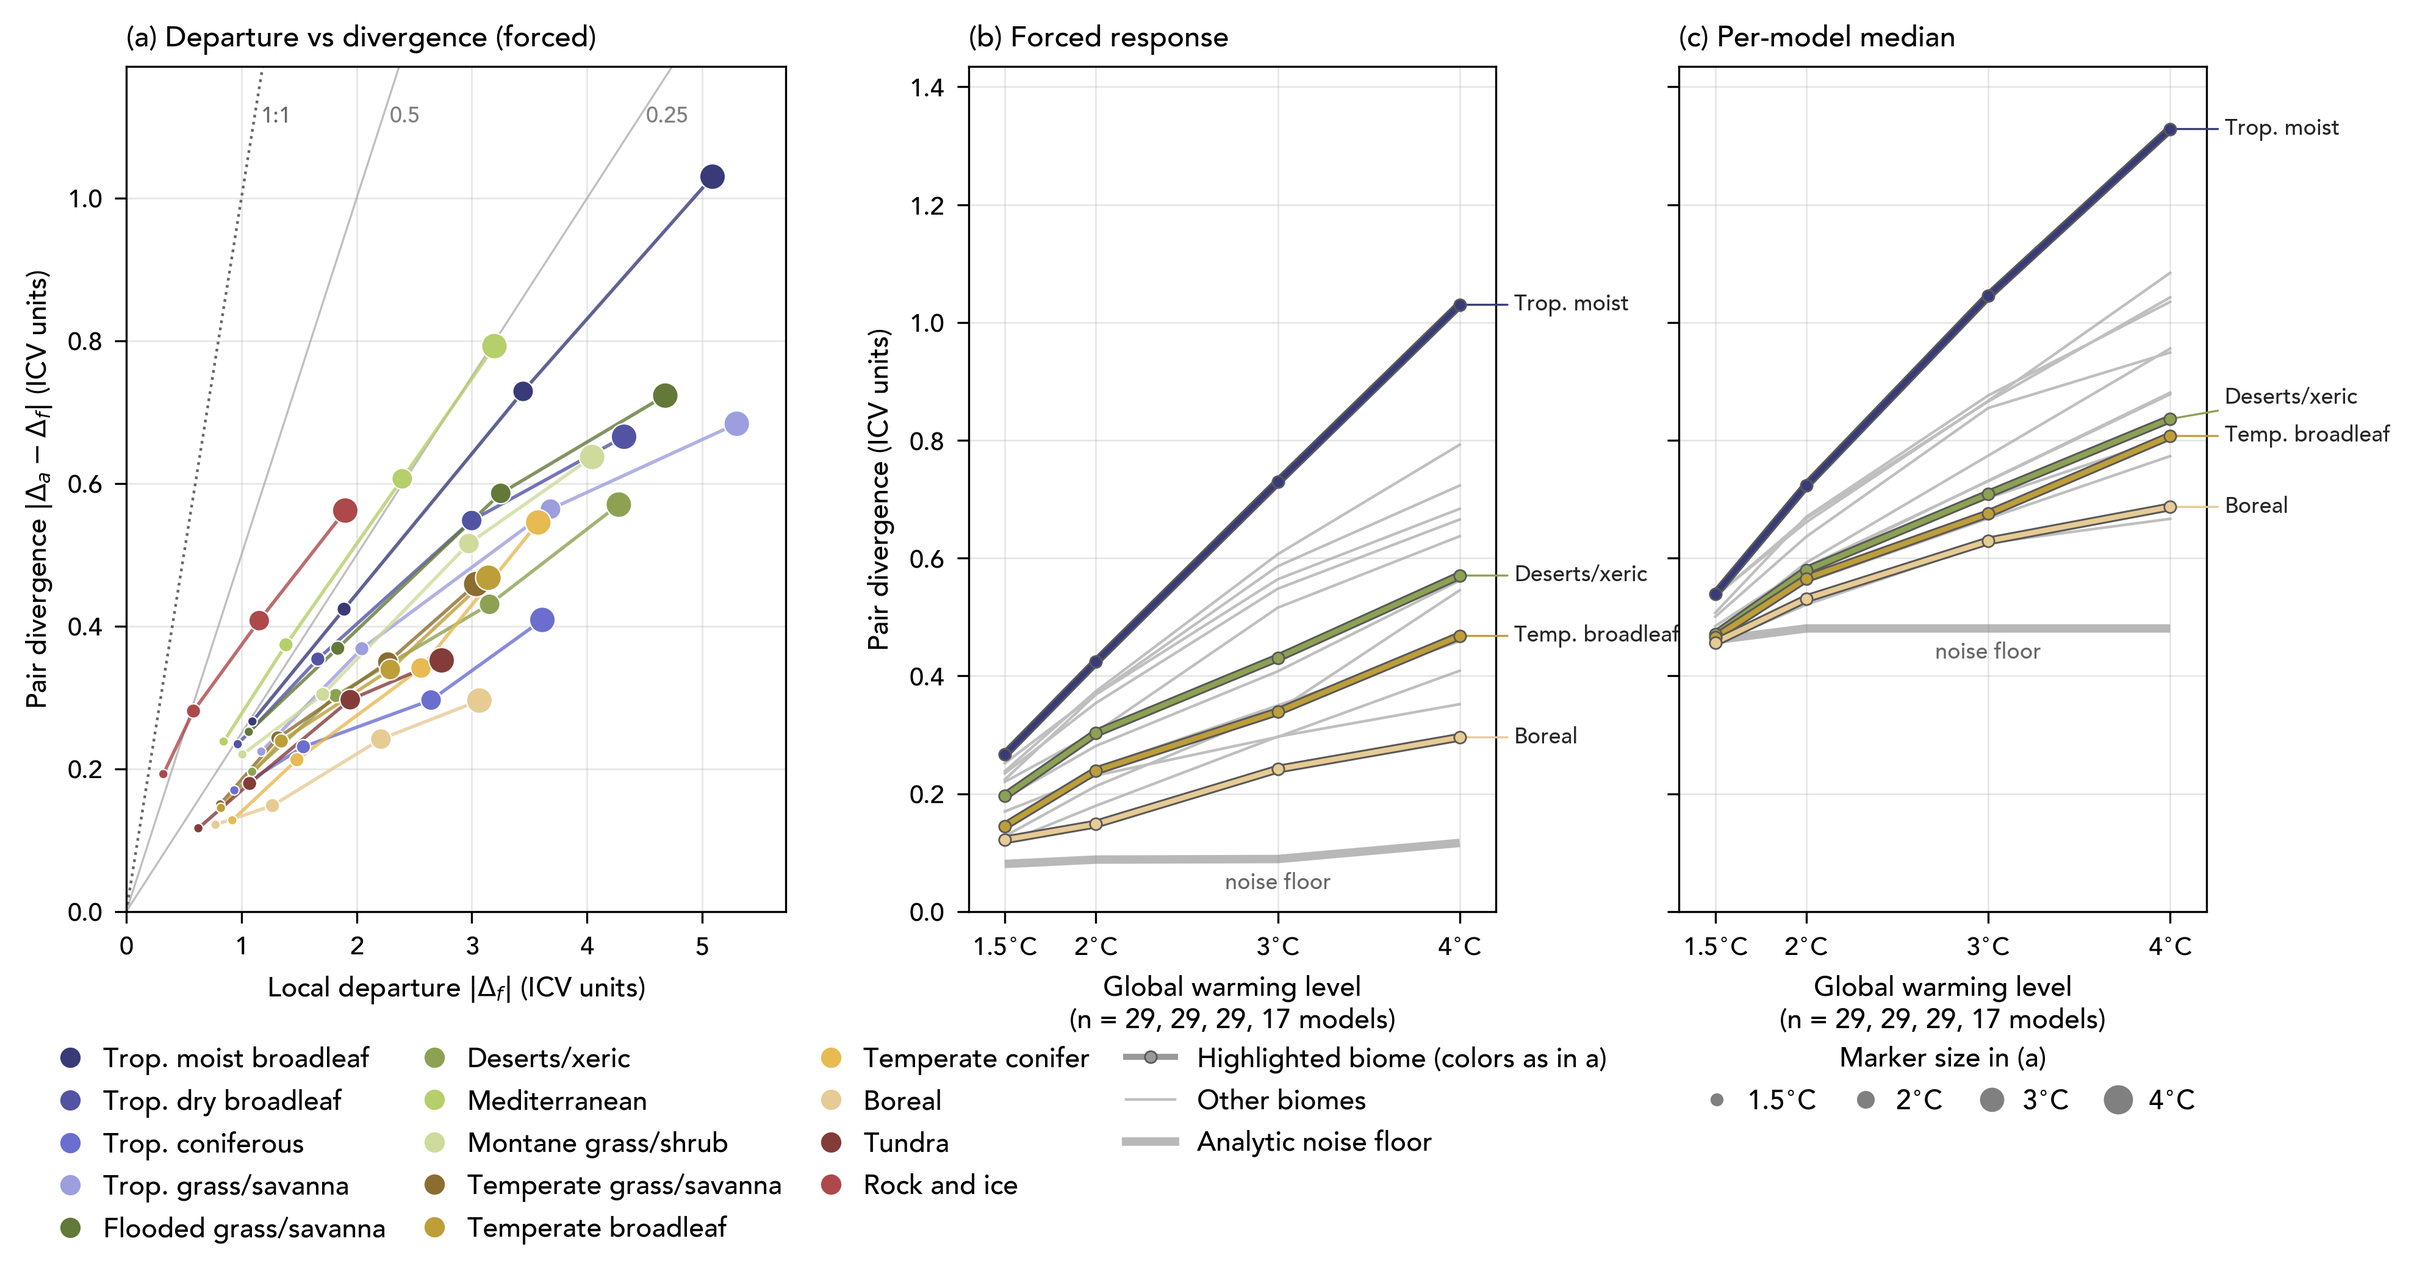
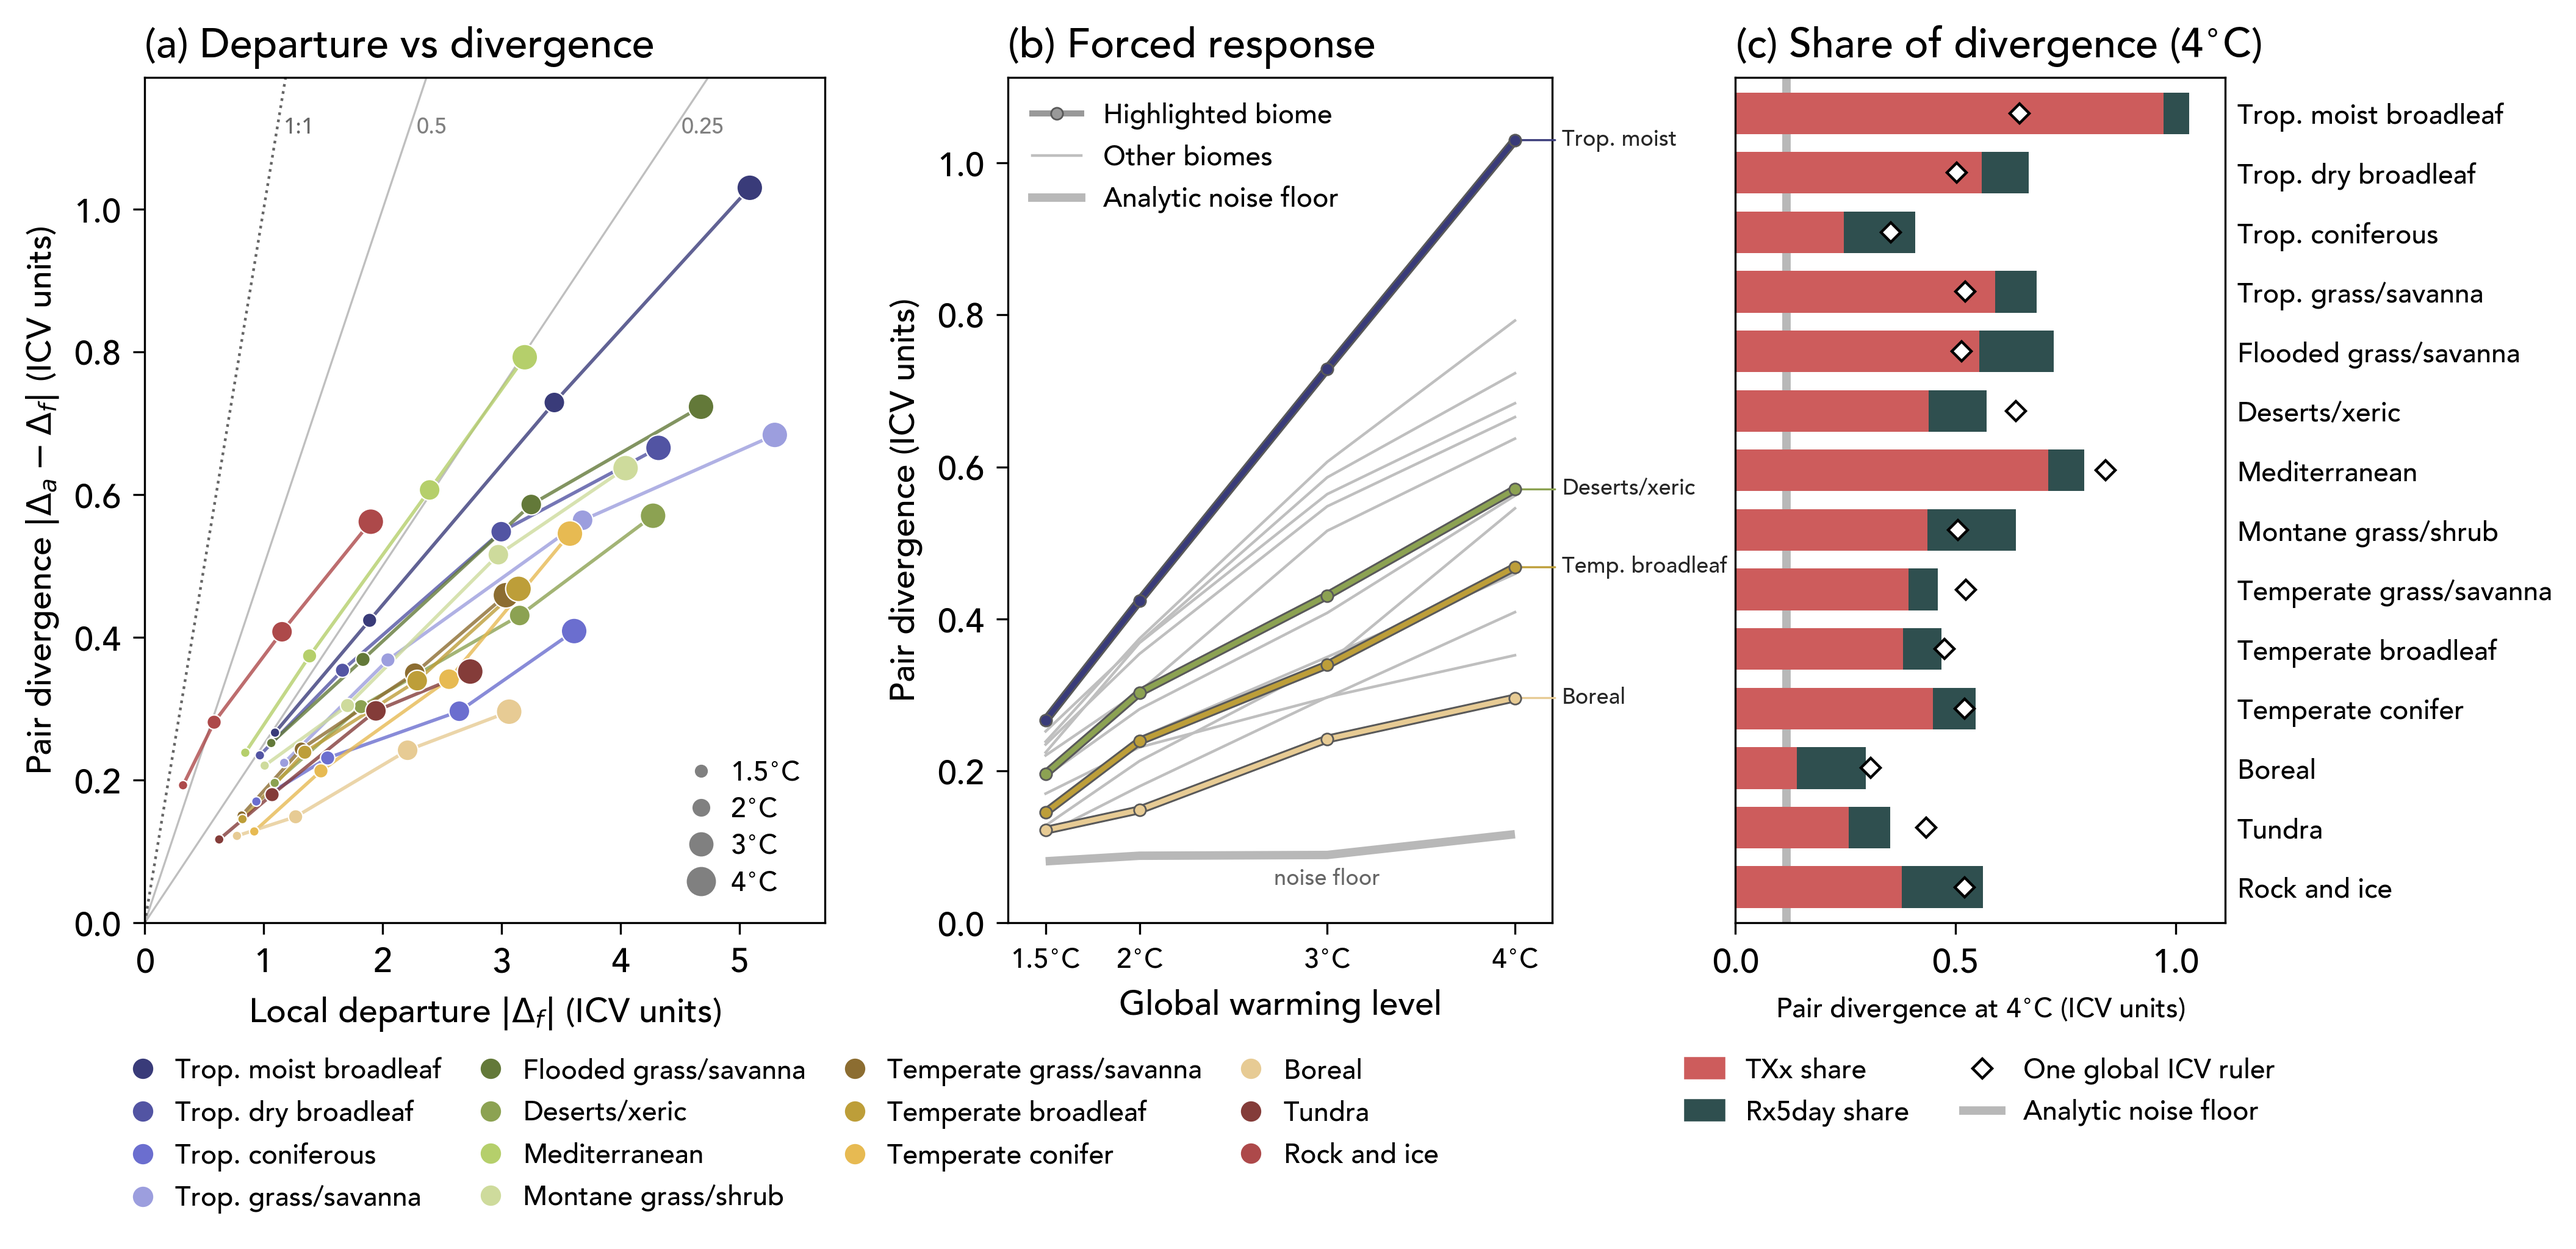
figure 3 tweaks

diff --git a/plot/plot.departure.divergence.py b/plot/plot.departure.divergence.py
@@ -40,7 +40,7 @@ HIGHLIGHT = [14, 1, 8, 2]        # tropical moist, boreal, temperate broadleaf, 
 SHORT = {14: 'Trop. moist', 1: 'Boreal', 8: 'Temp. broadleaf', 2: 'Deserts/xeric'}
 RATIOS = [0.25, 0.5]
 ATTR_GWL = os.environ.get('ANALOG_ATTR_GWL', 'gwl4')   # GWL for panel c
-VAR_COL = {'txx': '#b5541c', 'rx5day': '#3a6f9a'}
+VAR_COL = {'txx': 'indianred', 'rx5day': 'darkslategray'}
 VAR_LAB = {'txx': 'TXx', 'rx5day': 'Rx5day'}
 LABEL_A = {7: 'Rock and ice', 5: 'Mediterranean'}   # direct labels in (a): steepest trajectories
 # dark outline on highlighted lines in (b, c): keeps the light boreal tan readable
@@ -110,12 +110,10 @@ axa.plot([0, xmax], [0, xmax], color='0.4', lw=0.8, ls=':')
 for q in RATIOS:
     axa.plot([0, xmax], [0, q * xmax], color='0.75', lw=0.6, zorder=0)
 
-
 def ratio_label(q, txt, col):
     # label just inside the axes where the line y = q x leaves the plot
     xt = min(xmax * 0.97, 0.94 * ymax / q)
     axa.text(xt + 0.01 * xmax, q * xt, txt, fontsize=6.5, color=col, ha='left', va='center')
-
 
 ratio_label(1.0, '1:1', '0.4')
 for q in RATIOS:
@@ -130,9 +128,9 @@ for r in rows:
     #                 textcoords='offset points', fontsize=6.5, color='0.15', ha='left', va='bottom')
 axa.set_xlim(0, xmax)
 axa.set_ylim(0, ymax)
-axa.set_xlabel(r'Local departure $|\Delta_f|$ (ICV units)', fontsize=8)
-axa.set_ylabel(r'Pair divergence $|\Delta_a - \Delta_f|$ (ICV units)', fontsize=8)
-axa.set_title('(a) Departure vs divergence (forced)', loc='left', fontsize=8.5)
+axa.set_xlabel(r'Local departure $|\Delta_f|$ (ICV units)', fontsize=10)
+axa.set_ylabel(r'Pair divergence $|\Delta_a - \Delta_f|$ (ICV units)', fontsize=10)
+axa.set_title('(a) Departure vs divergence', loc='left')
 
 # ------------------------------------------------------------------
 # (b) forced and (c) per-model divergence vs GWL
@@ -150,10 +148,9 @@ def direct_labels(ax, items, ymin_gap):  # noqa: E302
     for i in range(1, len(ys)):
         ys[i] = max(ys[i], ys[i - 1] + ymin_gap)
     for (y0, txt, c), y in zip(items, ys):
-        ax.annotate(txt, xy=(x[-1], y0), xytext=(x[-1] + 0.3, y), fontsize=6.5, color='0.15',
+        ax.annotate(txt, xy=(x[-1], y0), xytext=(x[-1] + 0.25, y), fontsize=6.5, color='0.15',
                     va='center', ha='left', annotation_clip=False,
                     arrowprops=dict(arrowstyle='-', color=c, lw=0.6, shrinkA=0, shrinkB=2))
-
 
 def draw_div(ax, key, floor, title):
     yhi = YHI[key]
@@ -171,13 +168,14 @@ def draw_div(ax, key, floor, title):
     ax.text(x[-2], floor[-2] - 0.015 * yhi, 'noise floor', fontsize=6.5, color='0.4', va='top', ha='center')
     direct_labels(ax, hl, 0.045 * yhi)
     ax.set_xticks(x)
-    ax.set_xticklabels([gwl_tex(g) for g in gwls], fontsize=7.5)
+    ax.set_xticklabels([gwl_tex(g) for g in gwls], fontsize=8)
     ax.set_xlim(x[0] - 0.2, x[-1] + 0.2)
     ax.set_ylim(0, yhi)
-    ax.set_title(title, loc='left', fontsize=8.5)
-    ax.set_xlabel('Global warming level' + ('' if use_common else
-                  '\n(n = ' + ', '.join(str(n) for n in nmod) + ' models)'), fontsize=8)
-    ax.set_ylabel('Pair divergence (ICV units)', fontsize=8)
+    ax.set_title(title, loc='left')
+    #ax.set_xlabel('Global warming level' + ('' if use_common else
+    #              '\n(n = ' + ', '.join(str(n) for n in nmod) + ' models)'), fontsize=8)
+    ax.set_xlabel('Global warming level', fontsize=10)
+    ax.set_ylabel('Pair divergence (ICV units)', fontsize=10)
 
 
 draw_div(axb, 'divm', flm, '(b) Forced response')
@@ -201,38 +199,43 @@ for yi, (name, d, dg, sh) in zip(yy, attr):
     axc.plot(dg, yi, marker='D', ms=4, mfc='white', mec='k', mew=0.8, ls='', zorder=4)
 axc.axvline(flm[gwls.index(ga)], color='0.45', lw=2.5, alpha=0.5, zorder=0)
 axc.set_yticks(yy)
-axc.set_yticklabels([a[0] for a in attr], fontsize=7)
+axc.set_yticklabels([a[0] for a in attr], fontsize=8)
 axc.yaxis.tick_right()
 axc.tick_params(axis='y', length=0)
 axc.set_ylim(yy[-1] - 0.6, 0.6)
 axc.set_xlim(0, np.nanmax([max(a[1], a[2]) for a in attr]) * 1.08)
 axc.set_xlabel(f'Pair divergence at {gwl_tex(ga)} (ICV units)', fontsize=8)
-axc.set_title(f'(c) What drives divergence ({gwl_tex(ga)}, forced)', loc='left', fontsize=8.5)
+axc.set_title(f'(c) Share of divergence ({gwl_tex(ga)})', loc='left')
 axc.grid(axis='y', visible=False)
 
 # ---- legends along the bottom ----
 pa, pb, pc = axa.get_position(), axb.get_position(), axc.get_position()
 y_leg = pa.y0 - 0.10
 ha = [Line2D([], [], ls='', marker='o', color=color[r['b']], ms=5, label=r['name']) for r in rows]
-fig.legend(handles=ha, fontsize=8.0, loc='upper left', bbox_to_anchor=(pa.x0 - 0.04, y_leg),
-           ncol=3, frameon=False, handletextpad=0.2, columnspacing=0.8)
+fig.legend(handles=ha, fontsize=8.0, loc='upper left', bbox_to_anchor=(pa.x0-0.02, y_leg),
+           ncol=4, frameon=False, handletextpad=0.2, columnspacing=0.8)
 hb = [Line2D([], [], color='0.6', lw=1.8, marker='o', ms=3.5, mec='0.35', mew=0.5,
-             label='Highlighted biome (colors as in a)'),
+             label='Highlighted biome'),
       Line2D([], [], color='0.75', lw=0.8, label='Other biomes'),
       Line2D([], [], color='0.45', lw=2.5, alpha=0.5, label='Analytic noise floor')]
-fig.legend(handles=hb, fontsize=8.0, loc='upper center', bbox_to_anchor=(0.5 * (pb.x0 + pb.x1+0.1), y_leg),
+#fig.legend(handles=hb, fontsize=8.0, loc='upper left', bbox_to_anchor=(0.5 * (pb.x0 + pb.x1+0.1), y_leg),
+#           ncol=1, frameon=False, handlelength=1.8)
+axb.legend(handles=hb, fontsize=8.0, loc='upper left', 
            ncol=1, frameon=False, handlelength=1.8)
 hs = [Line2D([], [], ls='', marker='o', color='0.5', ms=np.sqrt(sz), label=gwl_tex(g))
       for sz, g in zip(sizes, gwls)]
-axa.legend(handles=hs, fontsize=6.5, loc='lower right', ncol=1, frameon=False,
-           handletextpad=0.1, labelspacing=0.3, title='Marker size', title_fontsize=6.5)
+axa.legend(handles=hs, fontsize=8.0, loc='lower right', ncol=1, frameon=False,
+           handletextpad=0.1, labelspacing=0.3)#,  title_fontsize=6.5)
 hc = [plt.Rectangle((0, 0), 1, 1, color=VAR_COL[vk0], label=f'{VAR_LAB.get(vk0, vk0)} share'),
       plt.Rectangle((0, 0), 1, 1, color=VAR_COL[vk1], label=f'{VAR_LAB.get(vk1, vk1)} share'),
       Line2D([], [], ls='', marker='D', ms=4, mfc='white', mec='k', mew=0.8,
              label='One global ICV ruler'),
       Line2D([], [], color='0.45', lw=2.5, alpha=0.5, label='Analytic noise floor')]
-fig.legend(handles=hc, fontsize=8.0, loc='upper center', bbox_to_anchor=(0.5 * (pc.x0 + pc.x1), y_leg),
-           ncol=1, frameon=False, handlelength=1.4)
+fig.legend(handles=hc, fontsize=8.0, loc='upper center', 
+           bbox_to_anchor=(0.5 * (pc.x0 + pc.x1), y_leg),
+           ncol=2, frameon=False, handlelength=1.4)
+#axc.legend(handles=hc, fontsize=8.0, loc='lower right', 
+#           ncol=1, frameon=False, handlelength=1.1)
 
 pcm.savefig(fig, 'departure_divergence.png')
 
@@ -247,7 +250,7 @@ print('    departure mmm | divergence mmm | divergence per-model | comove mmm')
 for r in rows:
     f = lambda a: ' '.join(f'{v:5.2f}' for v in a)  # noqa: E731
     print(f'  {r["name"]:<24} {f(r["dep"])} | {f(r["divm"])} | {f(r["div"])} | {f(r["com"])}')
-print(f'\n--- {ga} attribution (forced): divergence local | global ruler | {vk0} share ---')
+print(f'\n--- {ga} attribution: divergence local | global ruler | {vk0} share ---')
 for name, d, dg, sh in attr:
     print(f'  {name:<24} {d:5.2f} | {dg:5.2f} | {sh:4.2f}')
 print('  noise floor per-model: ' + ' '.join(f'{v:.2f}' for v in fl)
